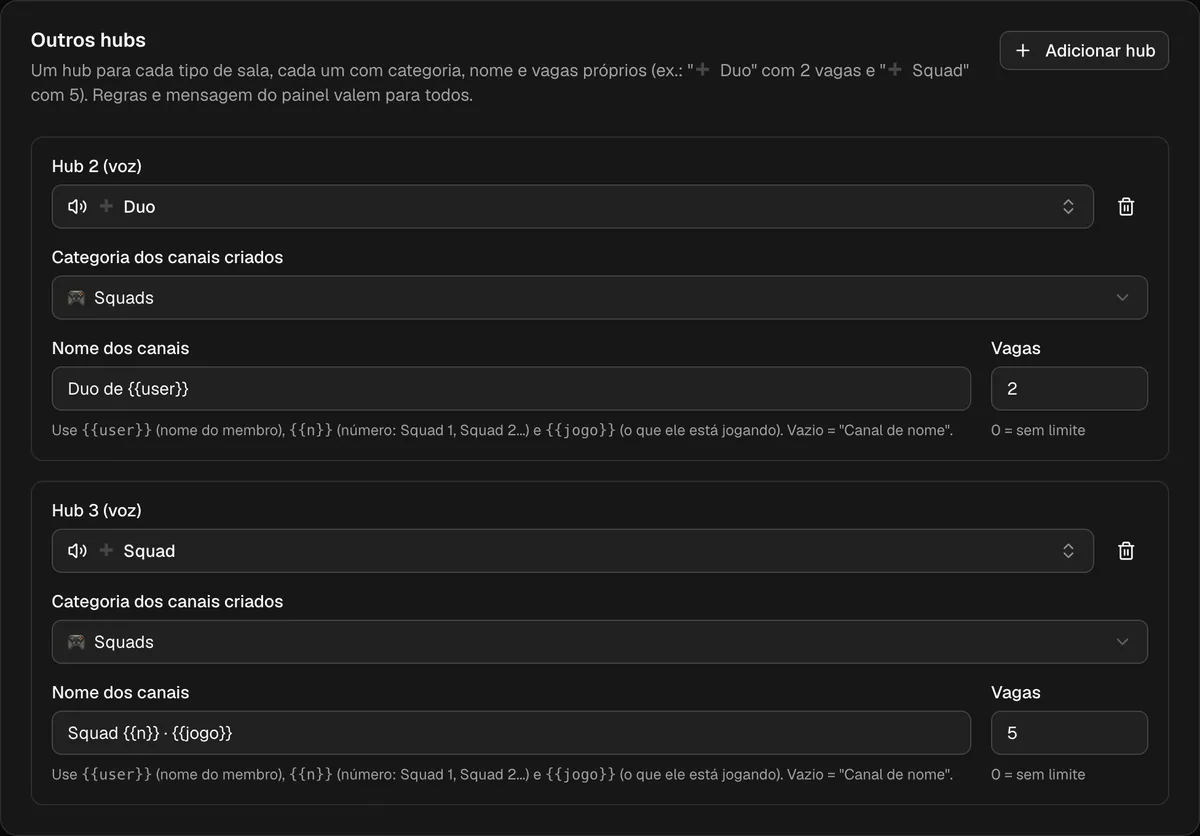
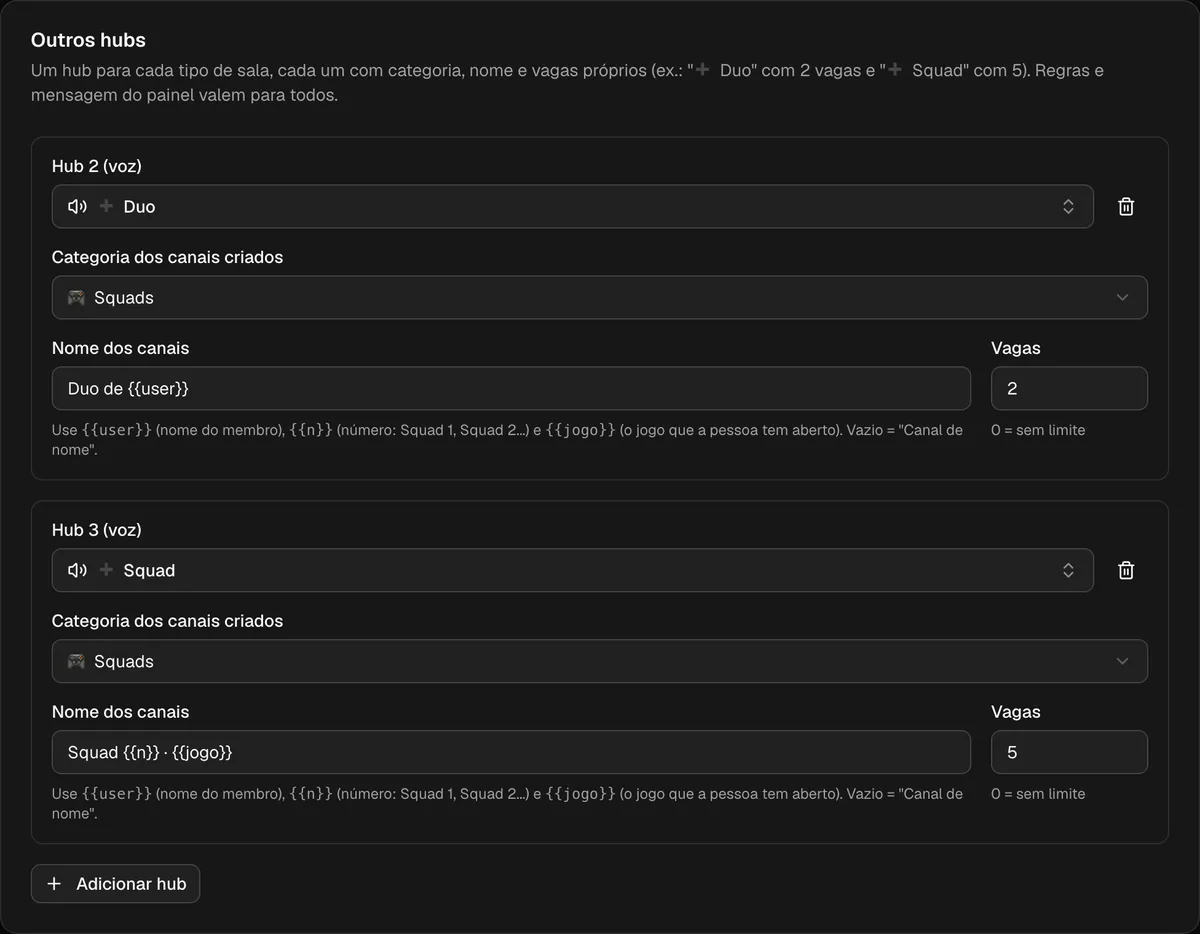
docs(voz): prints novos do painel e título da pergunta sem escape
Claude-Session: https://claude.ai/code/session_01TzL2RRRgMUTiwpKSY2Zaws

diff --git a/docs/funcionalidades/voz-dinamica.md b/docs/funcionalidades/voz-dinamica.md
@@ -41,14 +41,14 @@ Em [admin.delfus.app](https://admin.delfus.app) → **Voz dinâmica** você tem 
 
 ![Canal de entrada, categoria, nome, vagas e canal do procurando membros no painel do Delfus](../assets/dashboard/voz-dinamica.webp){ .dx-shot width="1200" height="575" loading=lazy }
 
-- **Nome dos canais**: um modelo com variáveis. `{{user}}` é o nome do membro, `{{n}}` é um número (Squad 1, Squad 2...) e `{{jogo}}` é o que ele está jogando. Vazio, o nome fica "Canal de *nome*".
+- **Nome dos canais**: um modelo com variáveis. `{{user}}` é o nome do membro, `{{n}}` é um número (Squad 1, Squad 2...) e `{{jogo}}` é o jogo que a pessoa tem aberto (sem jogo, entra o nome dela). Vazio, o nome fica "Canal de *nome*".
 - **Vagas**: quantas pessoas cabem no canal novo. 0 é sem limite.
 - **Categoria**: onde os canais novos aparecem. Por padrão, na mesma categoria do canal de entrada.
 - **Outros hubs**: até 5 canais de entrada a mais, cada um com categoria, nome e vagas próprios.
 - **Quem pode usar cada ação**: criar canal, renomear, trancar, convidar e as outras podem exigir VIP ativo, um VIP específico, impulsionar o servidor, usar a tag do servidor no perfil ou ter um cargo.
 - **Mensagem do painel**: troque o texto do painel do canal pelo seu, no mesmo editor das outras mensagens do Delfus. Os menus continuam embaixo.
 
-![Dois hubs extras, Duo e Squad, cada um com categoria, nome e vagas](../assets/dashboard/voz-dinamica-hubs.webp){ .dx-shot width="1200" height="836" loading=lazy }
+![Dois hubs extras, Duo e Squad, cada um com categoria, nome e vagas](../assets/dashboard/voz-dinamica-hubs.webp){ .dx-shot width="1200" height="934" loading=lazy }
 
 !!! example "Exemplo: um hub para cada tamanho de grupo"
     - **➕ Duo**: 2 vagas, nome `Duo de {{user}}`.
@@ -157,7 +157,7 @@ O `/voz setup` confere isso e mostra o que falta, se faltar.
 ??? question "Tranquei o canal e eu mesmo não consigo voltar"
     Não acontece com o dono: o dono sempre entra no próprio canal. Se você saiu e outra pessoa assumiu o canal, peça para ela liberar você com **Liberar alguém**.
 
-??? question "A ação \"Procurando membros\" não aparece"
+??? question "A ação “Procurando membros” não aparece"
     Ela só aparece quando a equipe escolhe o canal de texto onde os avisos vão. Faça isso no `/voz setup` ou no painel web.
 
 ??? question "Uma ação sumiu do menu"
